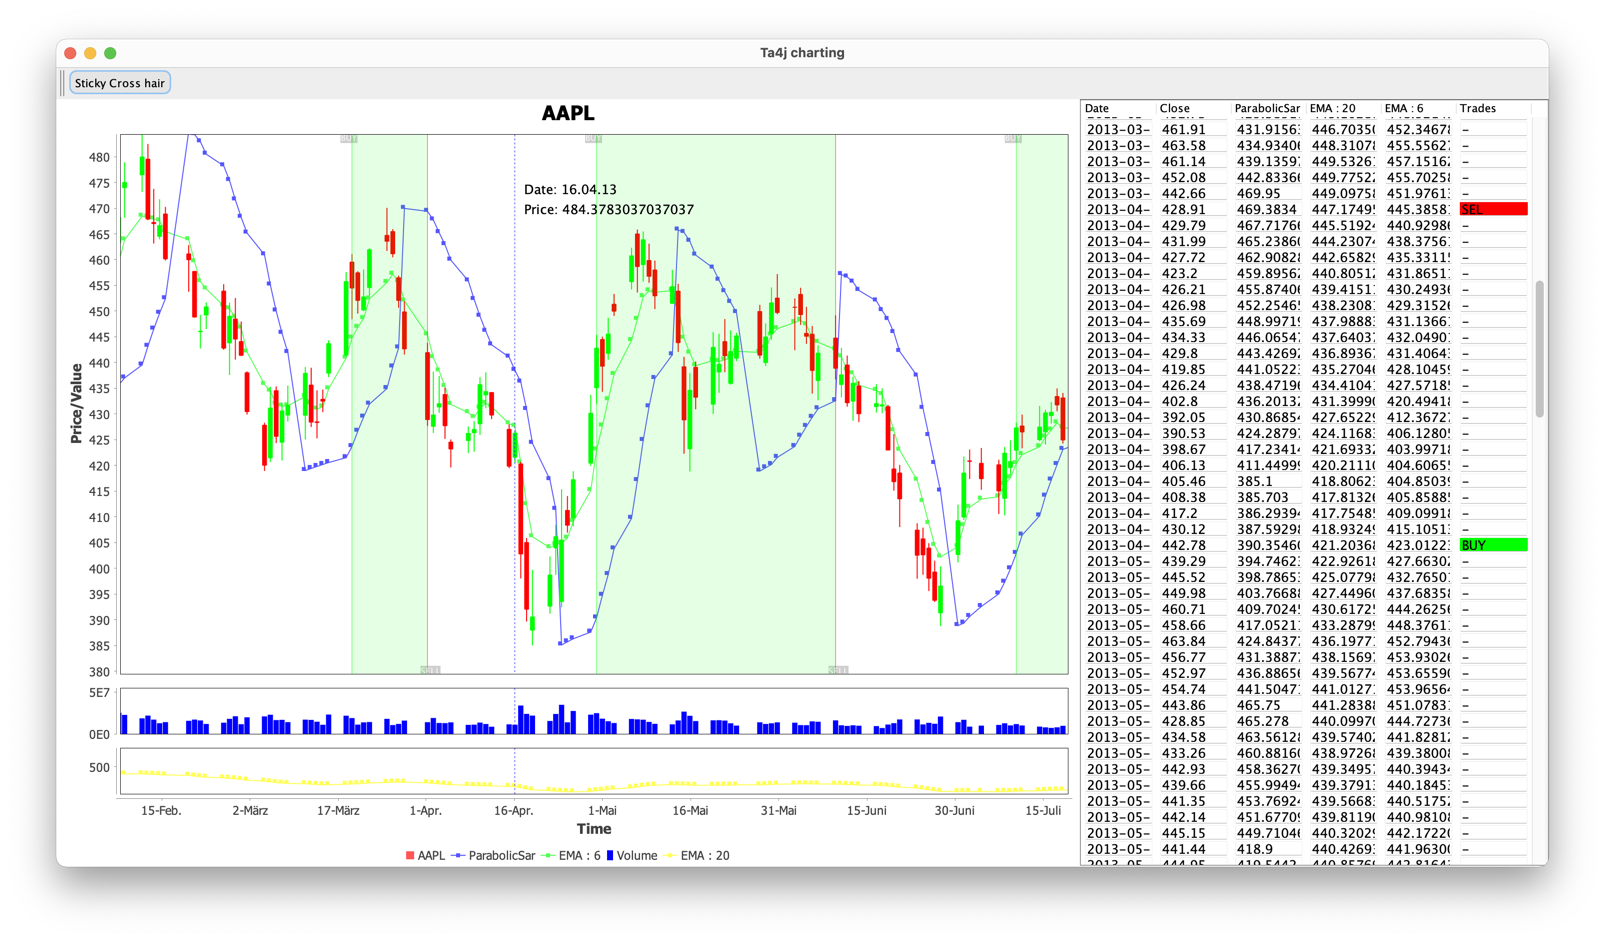
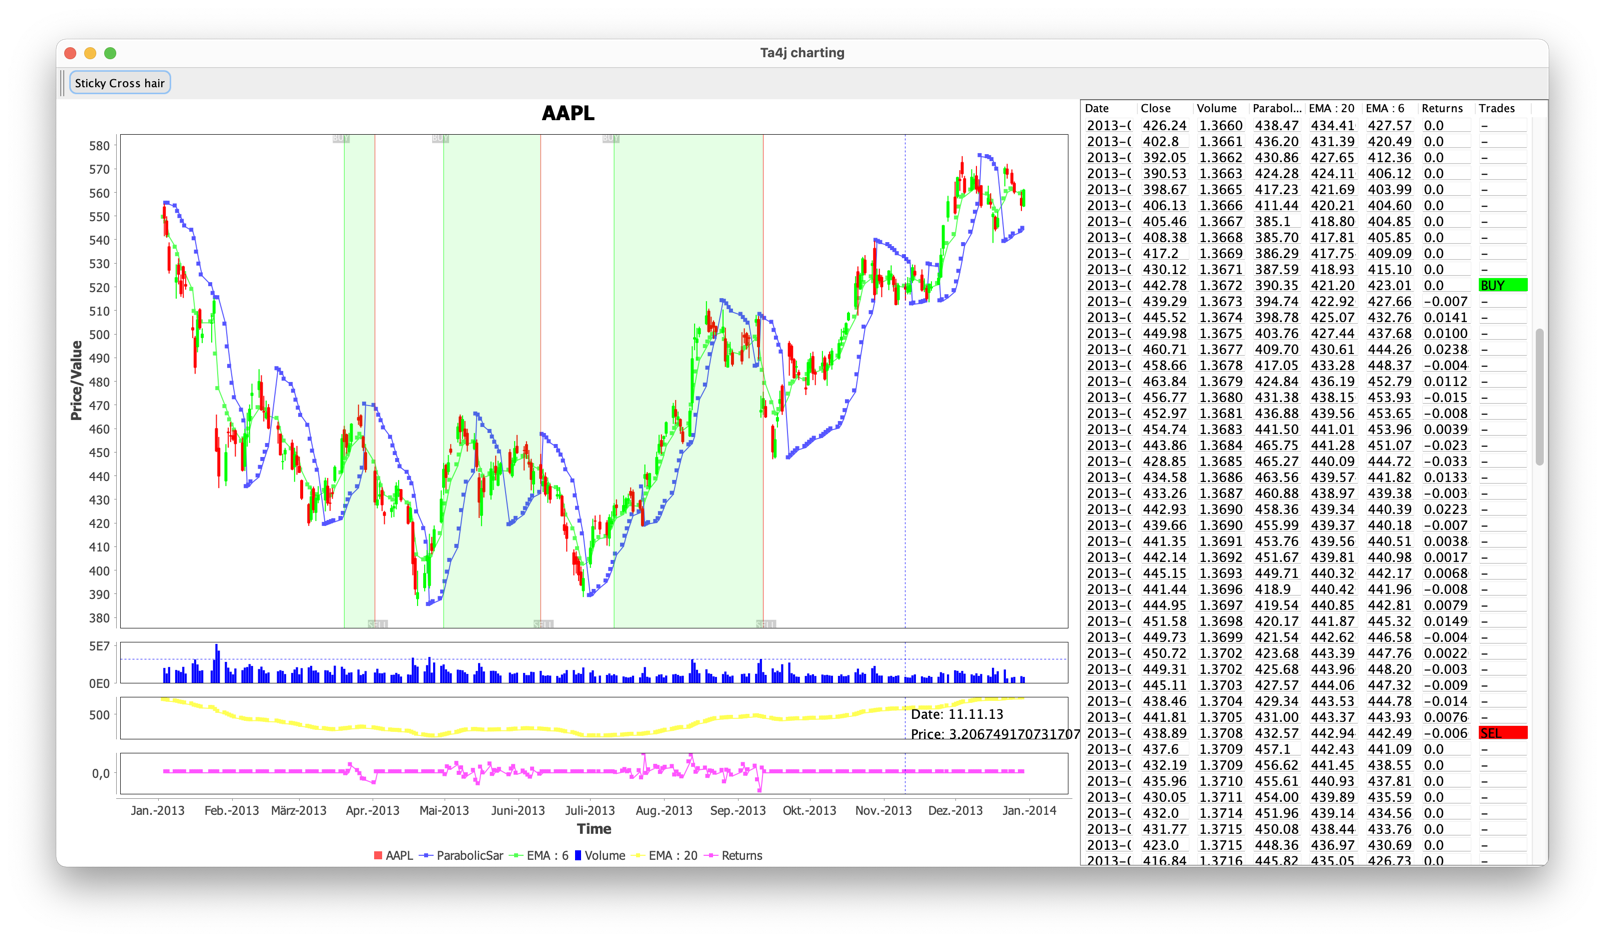
Add bar indicators to data table, add example of returns indicator

Changed region(s): [[0.0312, 0.0925, 0.9657, 0.9245], [0.2181, 0.8937, 0.4673, 0.9245], [0.0312, 0.3698, 0.0935, 0.4931]]

diff --git a/src/main/java/org/sjwimmer/starter/Starter.java b/src/main/java/org/sjwimmer/starter/Starter.java
@@ -19,6 +19,7 @@ import org.sjwimmer.ta4jchart.chartbuilder.ChartBuilderImpl;
 import org.sjwimmer.ta4jchart.chartbuilder.ChartType;
 import org.sjwimmer.ta4jchart.chartbuilder.PlotType;
 import org.ta4j.core.*;
+import org.ta4j.core.analysis.Returns;
 import org.ta4j.core.indicators.EMAIndicator;
 import org.ta4j.core.indicators.ParabolicSarIndicator;
 import org.ta4j.core.indicators.helpers.ClosePriceIndicator;
@@ -46,6 +47,8 @@ public class Starter {
 		Strategy strategy = new BaseStrategy(entry, exit);
 		TradingRecord tradingRecord = new BarSeriesManager(barSeries).run(strategy);
 
+		Returns returns = new Returns(barSeries, tradingRecord, Returns.ReturnType.ARITHMETIC);
+
 		// 2 Add your ta4j objects to a ChartBuilder instance
 		ChartBuilder chartBuilder = new ChartBuilderImpl(barSeries);
 
@@ -53,6 +56,7 @@ public class Starter {
 		chartBuilder.addIndicator(parabolicSar, PlotType.OVERLAY, ChartType.LINE);
 		chartBuilder.addIndicator(longEma, PlotType.SUBPLOT, ChartType.LINE);
 		chartBuilder.addIndicator(shortEma); // default: PlotType.OVERLAY, ChartType.LINE
+		chartBuilder.addIndicator(returns, PlotType.SUBPLOT); // default: ChartType.LINE
 		chartBuilder.setTradingRecord(tradingRecord);
 
 		// 3 Create JFrame

diff --git a/src/main/java/org/sjwimmer/ta4jchart/chartbuilder/ChartBuilderImpl.java b/src/main/java/org/sjwimmer/ta4jchart/chartbuilder/ChartBuilderImpl.java
@@ -131,6 +131,7 @@ public class ChartBuilderImpl implements ChartBuilder {
 
 				candlestickPlot.setRenderer(counter, barRenderer);
 				candlestickPlot.setDataset(counter, barDataset);
+				this.dataTableModel.addEntries(barDataset);
 			}
 		} else if (plotType == PlotType.SUBPLOT) {
 			if(chartType == ChartType.BAR) {
@@ -140,6 +141,7 @@ public class ChartBuilderImpl implements ChartBuilder {
 				final XYPlot barPlot = new XYPlot(barDataset, null, valueAxis, barRenderer);
 				final CombinedDomainXYPlot combinedDomainPlot = (CombinedDomainXYPlot) this.chart.getPlot();
 				valueAxis.setLabel("");
+				this.dataTableModel.addEntries(barDataset);
 				combinedDomainPlot.add(barPlot, 1);
 			} else if (chartType == ChartType.LINE) {
 				final TimeSeriesCollection timeSeriesCollection = this.indicatorConverter.apply(indicator);
@@ -153,7 +155,6 @@ public class ChartBuilderImpl implements ChartBuilder {
 				renderer.setSeriesShape(0, new Rectangle2D.Double(-3.0, -3.0, 3.0, 3.0));
 				this.dataTableModel.addEntries(timeSeriesCollection);
 				combinedDomainPlot.add(linePlot, 1);
-				this.dataTableModel.addEntries(timeSeriesCollection);
 			}
 		}
 		theme.apply(chart);

diff --git a/src/main/java/org/sjwimmer/ta4jchart/chart/elements/data/DataTableModel.java b/src/main/java/org/sjwimmer/ta4jchart/chart/elements/data/DataTableModel.java
@@ -4,6 +4,8 @@ import org.jfree.data.time.TimeSeriesCollection;
 import org.jfree.data.time.ohlc.OHLCSeriesCollection;
 import org.jfree.data.xy.OHLCDataset;
 import org.jfree.data.xy.XYDataset;
+import org.jfree.data.xy.XYSeries;
+import org.sjwimmer.ta4jchart.chart.dataset.TacBarDataset;
 
 import java.text.DateFormat;
 import java.text.SimpleDateFormat;
@@ -24,6 +26,15 @@ public class DataTableModel extends AbstractTableModel{
 
 	public void addEntries(String columnName, List<Object> values) {
 		this.data.put(columnName, values);
+	}
+
+	public void addEntries(TacBarDataset barDataset) {
+		final List<Object> values = new ArrayList<>();
+		XYSeries series = barDataset.getSeries(0);
+		for(int i = 0; i < series.getItemCount(); i++) {
+			values.add(series.getX(i));
+		}
+		this.addEntries(barDataset.getSeriesKey(0).toString(), values);
 	}
 
 	public void addEntries(OHLCDataset xyDataset) {

diff --git a/src/main/java/org/sjwimmer/ta4jchart/converter/Converter.java b/src/main/java/org/sjwimmer/ta4jchart/converter/Converter.java
@@ -1,6 +1,7 @@
 package org.sjwimmer.ta4jchart.converter;
 
 import org.ta4j.core.Bar;
+import org.ta4j.core.analysis.Returns;
 
 import java.util.ServiceLoader;
 import java.util.function.Consumer;
@@ -14,6 +15,9 @@ import java.util.function.Supplier;
 public interface Converter<T, R> extends Function<T, R> {
 
 	default String getName(T element){
+		if(element instanceof Returns) {
+			return "Returns";
+		}
 		return String.valueOf(element).replaceAll("Indicator", "").replaceAll("barCount", "");
 	}
 

diff --git a/src/main/java/org/sjwimmer/ta4jchart/chartbuilder/ChartBuilder.java b/src/main/java/org/sjwimmer/ta4jchart/chartbuilder/ChartBuilder.java
@@ -12,7 +12,13 @@ public interface ChartBuilder {
 
 	JPanel createPlot();
 
-	void addIndicator(Indicator<Num> indicator);
+	default void addIndicator(Indicator<Num> indicator){
+		addIndicator(indicator, PlotType.OVERLAY, ChartType.LINE);
+	}
+
+	default void addIndicator(Indicator<Num> indicator, PlotType plotType){
+		addIndicator(indicator, plotType, ChartType.LINE);
+	}
 
 	void addIndicator(Indicator<Num> indicator, PlotType plotType, ChartType chartType);
 
